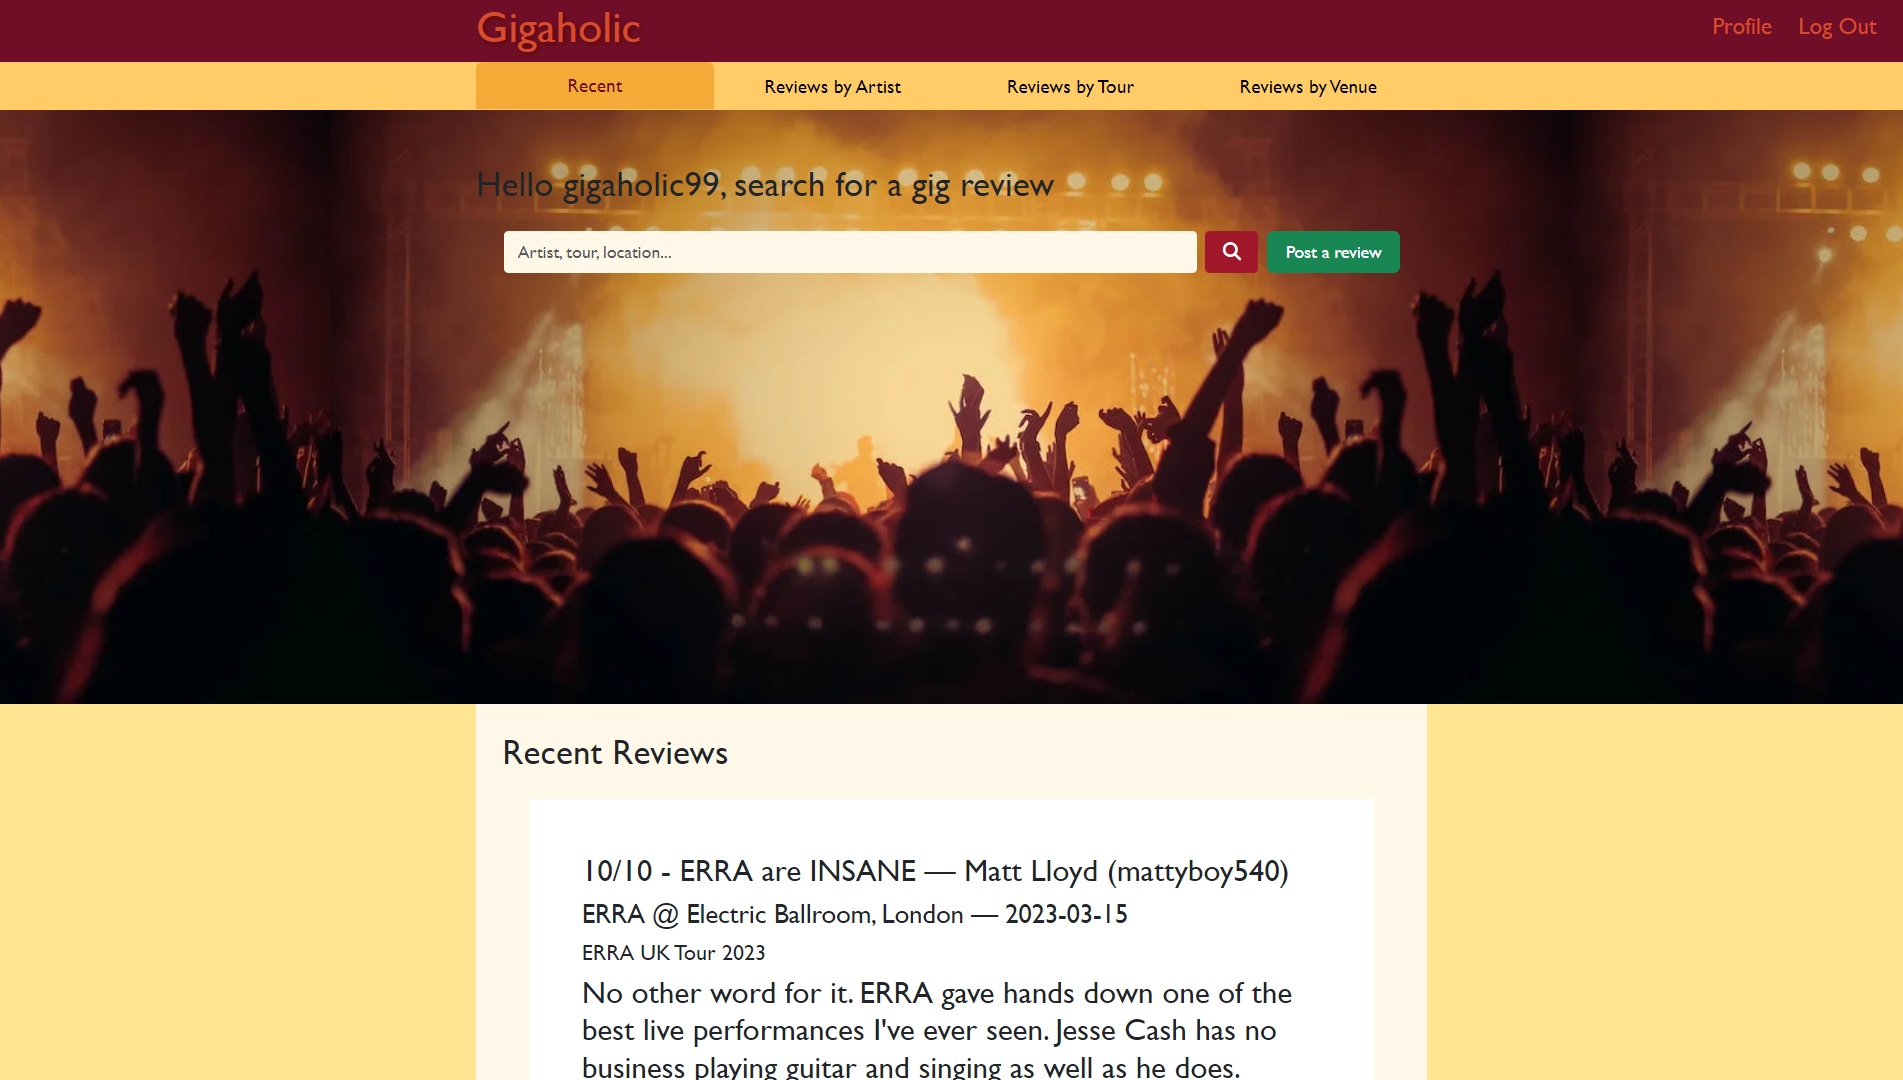
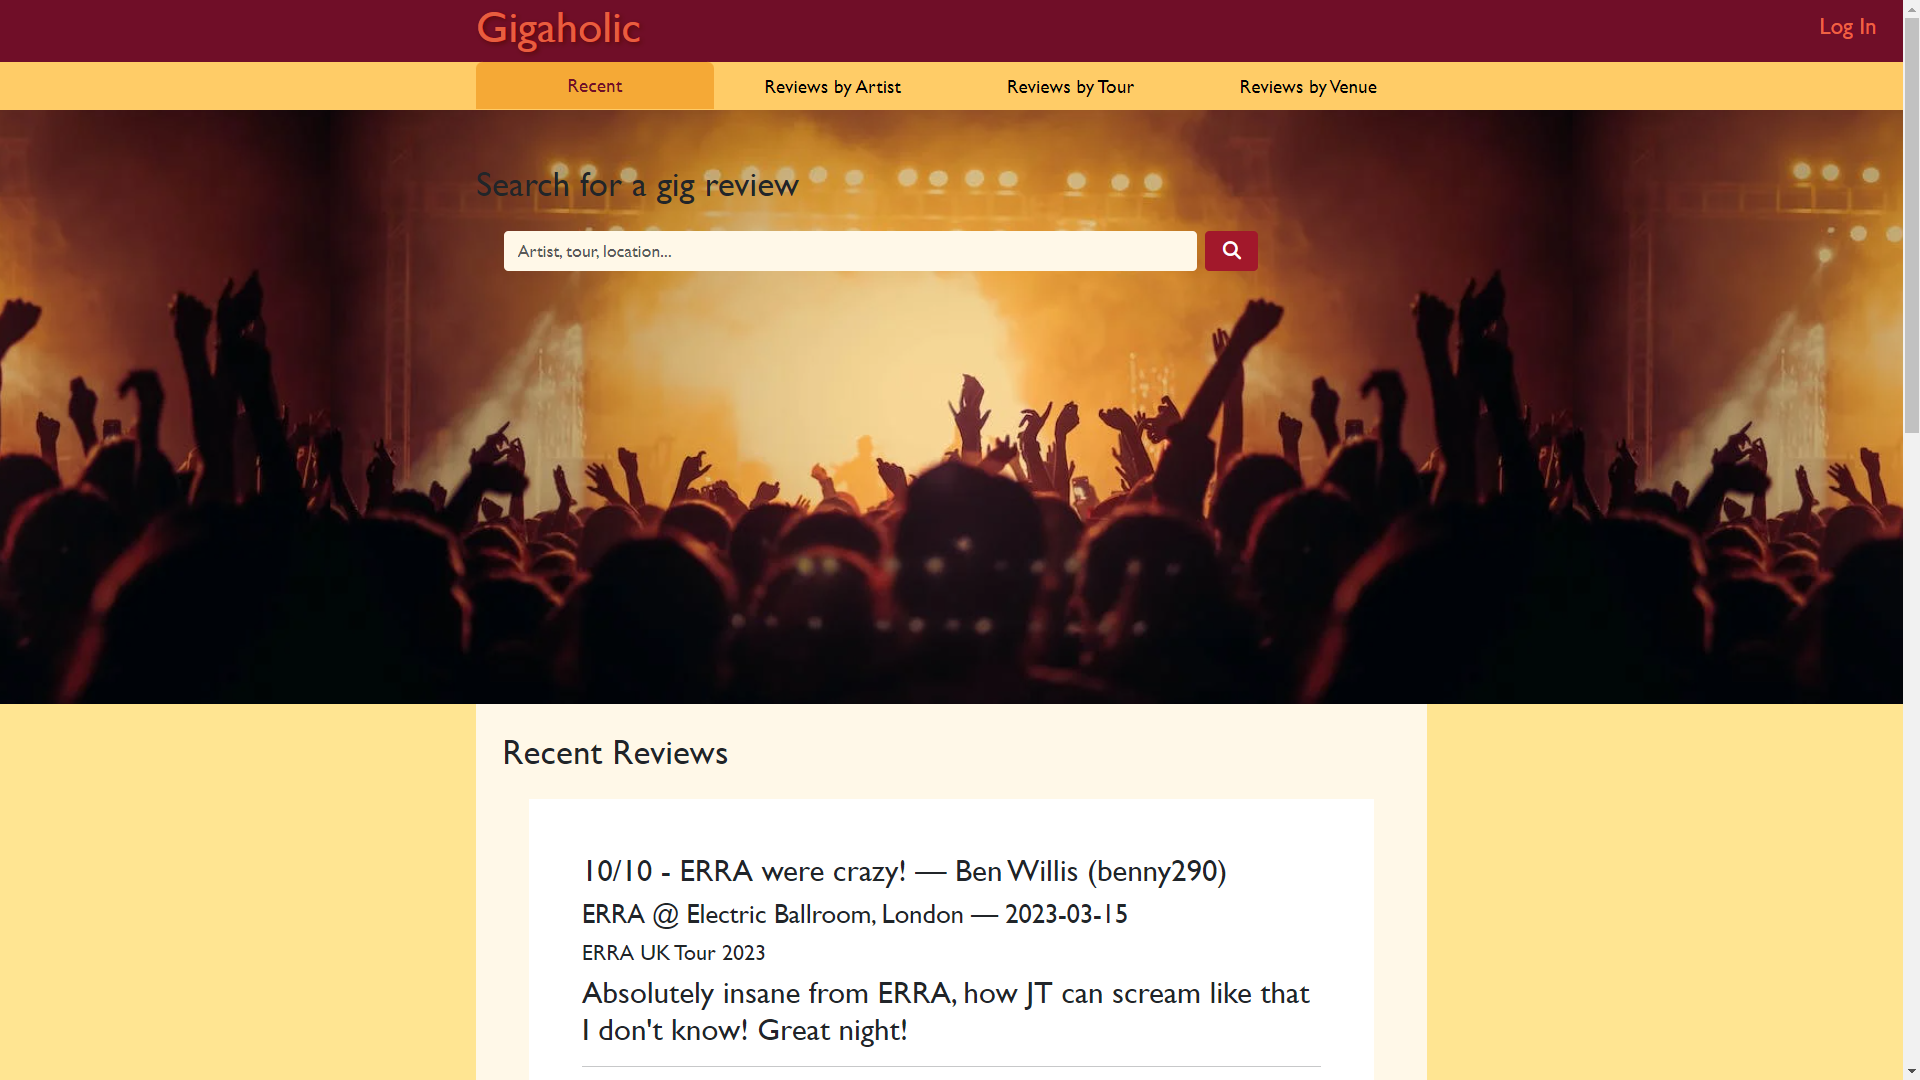
Update features section of README + update/reorganise README images

diff --git a/README.md b/README.md
@@ -51,7 +51,7 @@ View the live project [here](https://gigaholic.herokuapp.com/)
 The design of the website was mapped out using wireframes, before using HTML, CSS and Bootstrap to replicate it in the live project.
 
 <img width="70%" style="display: block; margin: auto;" src="static/docs/wireframes/gigaholic-wireframe.png" alt="Gigaholic Home Wireframe">
-<img width="46%" src="static/docs/wireframes/by-artist-wireframe.png" alt="Reviews By Artist Wireframe"><img width="54%" src="static/docs/wireframes/profile-wireframe.png" alt="Profile Wireframe">
+<img width="45%" src="static/docs/wireframes/by-artist-wireframe.png" alt="Reviews By Artist Wireframe"><img width="53%" src="static/docs/wireframes/profile-wireframe.png" alt="Profile Wireframe">
 
 I used a hero image showing a concert scene below the header and navbar which, along with the site name, Gigaholic, and the line 'Search for a gig review' on the image, make it immediately clear to visitors that the purpose of the site is for reading/posting concert reviews.
 
@@ -83,27 +83,17 @@ The Venue table contains venue ID, venue name, and city ID, referencing a City t
 
 ![Header and Nav](static/docs/readme-images/header-nav.png)
 
-The header is a simple title bar featuring the name of the site and, depending on whether the user is logged in or not, either a log in button or a profile button and a log out button. Clicking the site name will take you to the landing page.
+The header is a simple title bar featuring the name of the site and, depending on whether the user is logged in or not, either a 'Log In' button or a 'Profile' button and a 'Log Out' button. Clicking the site name will take you to the landing page.
 
 Underneath is a navbar with links to the landing page, which shows recently posted reviews, and pages to get reviews filtered by artist, tour and venue. As the pages are built off a template, the active tab is changed according to the current window pathname using a switch case statement in JavaScript.
-
-### Log In Page
-
-![Log In Page](static/docs/readme-images/login.png)
-
-If a visitor tries to access a page of the site without being logged in, they will be redirected to the log in page. If incorrect credentials are used, a message is flashed to indicate this.
-
-There is currently no site feature to create users, so at present this can only be done by directly adding a new user into the database.
-
-Passwords are hashed before being stored in the database to avoid plain text passwords being discoverable.
 
 ### Hero
 
 ![Hero](static/docs/readme-images/search-post-hero.png)
 
-The landing page features a hero image from a concert. Within this is a search bar and a greeting which is personalised to the user, and a post review button. On the other review pages, this feature is still present but is smaller to take up less space on the page and bring more focus to the reviews themselves.
+The landing page features a hero image from a concert. Within this is a search bar with a search button, though this feature currently doesn't work as unfortunately I did not have time to implement this (see [Improvements](#improvements-and-features-to-add) below). If the visitor is logged in to an account, a personalised greeting is displayed above the search bar, as well as a 'Post a review' button next to it. This feature is only shown to logged in users as a user ID is required to post new reviews to the website.
 
-The search button currently doesn't work as unfortunately I didn't have time to implement this feature, however the post button does and will bring you to the post review page.
+On the other review pages, this hero element is still present but is smaller to take up less space on the page and bring more focus to the reviews themselves.
 
 ### Recent Reviews
 
@@ -125,37 +115,61 @@ This review list is built in a similar way, by using the window pathname to make
 
 The Reviews by Tour and Reviews by Venue tabs are unfinished, but would have behaved in much the same way, retrieving all the tours and venues from the database, displaying them in an alphabetised list, and when clicked would take the user to a page showing all the reviews in the database for that tour/venue.
 
+### Log In Page
+
+![Log In Page](static/docs/readme-images/login.png)
+
+If a user wants to post a review or manage their reviews, they need to log into an account. The log in page features a simple form containing username and password fields and a 'Log in' button, on a background of the same concert hero image from the other pages. If correct credentials are entered, the user will be logged in and redirected to the homepage; if the credentials are incorrect, a message is flashed to indicate this and prompt the user to check their details and try again.
+
+Some pages of the site require the user to be logged in, such as the profile or any of the post/edit/delete forms. If a visitor tries to access one of these pages without being logged in, they will be redirected to the log in page.
+
+Unfortunately there is currently no sign up feature within the site to create new user accounts, so at present this can only be done by directly adding a new user into the database.
+
+Passwords are hashed before being stored in the database to avoid plain text passwords being discoverable.
+
 ### Profile
 
 ![Profile](static/docs/readme-images/profile.png)
 
 When a user visits their profile, they are able to see a list of all the reviews they have posted. This is achieved by using Flask's current user to get the user ID of the currently logged in user with a Fetch request, followed by another Fetch to get the reviews for that user ID and display them to the page in the usual way.
 
-Beneath this are buttons that allow the user to post a new review, edit their existing reviews, and delete their reviews.
+Beneath this are buttons that allow the user to post a new review, edit their existing reviews, and delete their reviews, providing full CRUD functionality to the site.
 
-### Post Review Form
+### Create - Post Review Form
 
 ![Post Review Form](static/docs/readme-images/post-form.png)
 
-When a user clicks the 'post a review' button on any page, they are redirected to the post review form. This allows the user to pick a concert from a dropdown list built by fetching all the concerts currently in the database and appending them as options to a select element. The user is then required to fill in a review title, a rating (which has to be a number between 0 and 10), and their review text.
+When a user clicks the 'Post a review' button on any page or 'Post new review' on their profile, they are redirected to the post review form. This allows the user to pick a concert from a dropdown list built by fetching all the concerts currently in the database and appending them as options to a select element. The user is then required to fill in a review title, a rating (which has to be a number between 0 and 10), and their review text.
 
 The submit button then passes the form data to JavaScript with an event listener, and Fetch is used to post this data as a new review to the database. If the Fetch request has been completed successfully, a modal is displayed to indicate this to the user, and closing the modal redirects them to the landing page, where they can see their review amongst the newly posted reviews.
 
-### Edit Review Form
+This feature demonstrates Create functionality in this project.
+
+### Read - Review Pages and Profile
+
+Data from the database is retrieved and displayed to the user in many areas of the site, as mentioned above - the [Recent page](#recent-reviews) displays reviews from the database in order of most recently posted; the [Reviews by Pages](#reviews-by-pages) show lists of the artists/tours/venues in the database and all the reviews for a selected artist/tour/venue currently in the database; the [Profile page](#profile) displays all the reviews posted by the currently logged in user.
+
+These elements all demonstrate Read functionality.
+
+### Update - Edit Review Form
 
 ![Edit Review Form](static/docs/readme-images/edit-form.png)
 
-Similarly, clicking the edit reviews button redirects the user to the edit review form. This uses the current user's ID to fetch all their posted reviews and build a dropdown. The concert ID is also attached to each option in the review dropdown, and this is used to get the associated concert information for the currently selected review, to then update the option in the concert dropdown accordingly. The review ID of the selected review is used get the data for that review and then pre-populate the form fields with the current review title, rating and text so they can then be edited. These updates happen both when the content is loaded and when the review dropdown is changed.
+Similar to the post review buttons, clicking the 'Edit your reviews' button on a user's profile redirects the user to the edit review form. This uses the current user's ID to fetch all their posted reviews and build a dropdown. The concert ID is also attached to each option in the review dropdown, and this is used to get the associated concert information for the currently selected review, to then update the option in the concert dropdown accordingly. The review ID of the selected review is used get the data for that review and then pre-populate the form fields with the current review title, rating and text so they can then be edited. These updates happen both when the content is loaded and when the review dropdown is changed.
 
 As with the post form, JavaScript is then used to submit this data, but this time with a patch method in order to update the review with the ID passed in, and success modal is displayed if this request was successful. Closing this redirects the user to their profile.
 
-### Delete Review Form
+This feature demonstrates Update functionality.
+
+### Delete - Delete Review Form
 
 ![Delete Review Form](static/docs/readme-images/delete-form.png)
 
 The delete form page uses the same method as the edit page to build a dropdown of the user's existing reviews.
 
 The delete button uses a Fetch request with the delete method to remove the review with the ID passed in from the database. Again, a success modal is displayed and redirects to the user's profile when closed.
+
+This feature demonstrates Delete functionality.
 
 ### Improvements and Features to Add
 
@@ -167,8 +181,6 @@ Unfortunately due to time constraints I was unable to completely finish all feat
 - At the moment a user can only edit and delete reviews from their profile - ideally there should be an edit and delete button on the reviews themselves, but this would have been more time consuming to implement so I had to limit it to just the profile for now.
 
 ---
-
-
 
 ## Technologies
 
@@ -217,17 +229,17 @@ The app was tested on a variety of internet browsers including Google Chrome, Mi
 
 The website passed through the [W3C validator](https://validator.w3.org/) with no issues when using its URI. When each HTML page was checked by direct input, there were some errors, but only those to do with the Flask templating used as these are of course not recognised as standard HTML.
 
-![HTML Validated](static/docs/readme-images/html-validated.png)
+![HTML Validated](static/docs/validation/html-validated.png)
 
 The CSS passed through the [Jigsaw validator](https://jigsaw.w3.org/css-validator/) with no issues when checked by direct input. When the site URI was used, some errors were found, but only those to do with Bootstrap's CSS.
 
-![CSS Validated](static/docs/readme-images/css-validated.png)
+![CSS Validated](static/docs/validation/css-validated.png)
 
 ### Accessibility
 
 [WAVE](https://wave.webaim.org/) was used to assess the accessbility of the website. No errors or alerts were given, and only one contrast error was found.
 
-![WAVE Accessibility](static/docs/readme-images/accessibility.png)
+![WAVE Accessibility](static/docs/validation/accessibility.png)
 
 ### Known Bugs
 
